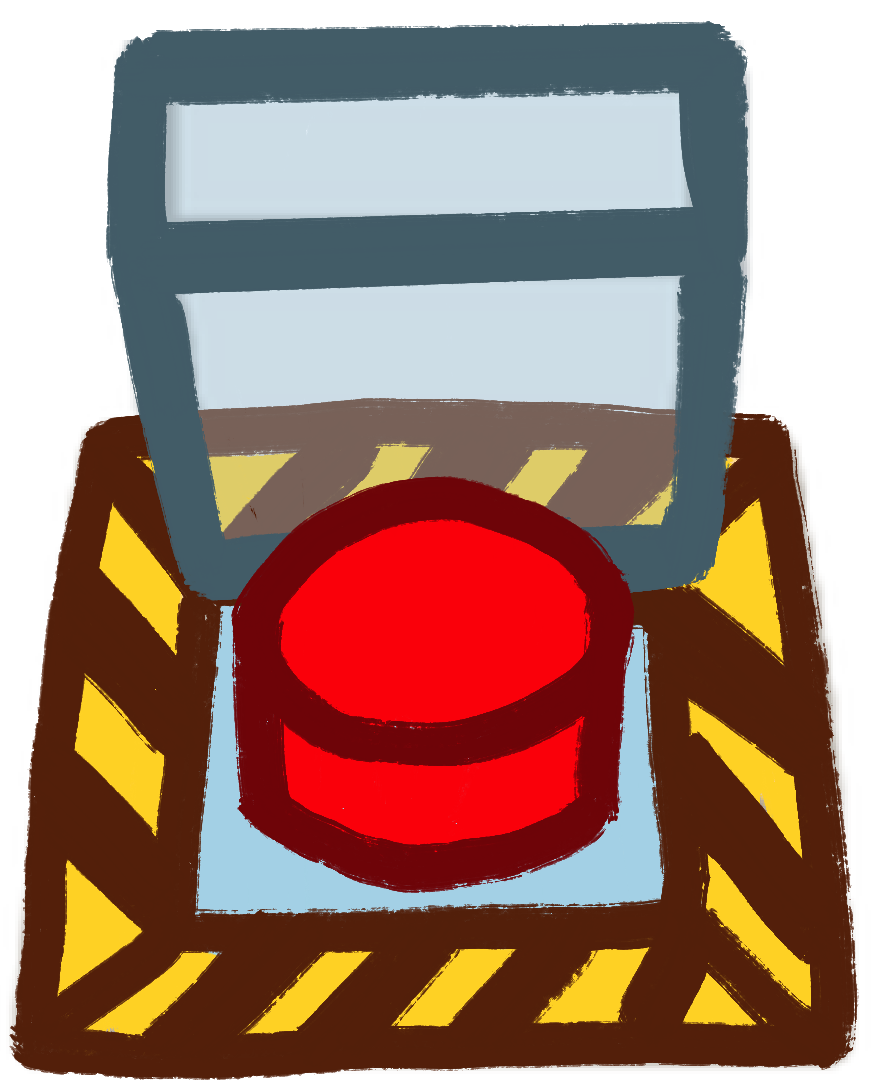
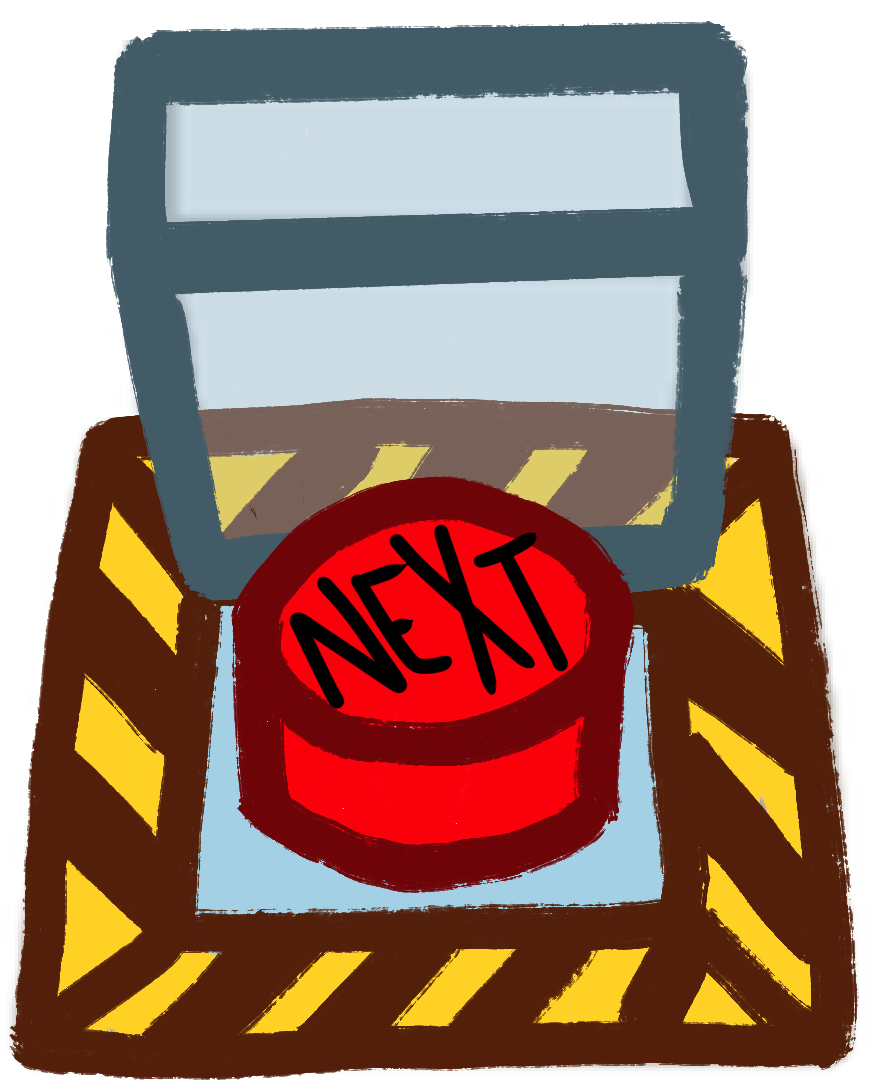
game complete

Changed region(s): [[0.3065, 0.4889, 0.6436, 0.6722]]

diff --git a/css/amongaxl.css b/css/amongaxl.css
@@ -1,0 +1,44 @@
+* {
+  margin: 0;
+  padding: 0;
+  font-family: "Courier New", Courier, monospace;
+}
+
+body {
+  background-image: url("../images/GameBoard.png");
+  background-size: 100%;
+  max-width: 390;
+  background-repeat: no-repeat;
+  background-color: black;
+}
+#word {
+  text-align: center;
+  margin-top: 5vh;
+  font-size: 60px;
+  color: green;
+  text-shadow: 0px 0px 10px lightgreen;
+}
+.next-button {
+  height: 80vh;
+  display: flex;
+  justify-content: center;
+  align-items: center;
+}
+#next {
+  height: 400px;
+  width: auto;
+}
+.back {
+  color: white;
+}
+h1 {
+  display: flex;
+}
+a {
+  text-decoration: none;
+  color: inherit;
+}
+a:visited {
+  text-decoration: none;
+  color: inherit;
+}

diff --git a/pages/amongaxl.html b/pages/amongaxl.html
@@ -10,8 +10,13 @@
   </head>
   <body>
     <div class="textbox" id="word"></div>
-    <input type="button" id="previous" value="Previous Word" />
-    <input type="button" id="next" value="Next Word" />
+    <div class="next-button">
+      <img id="next" src="../images/NextButton.png" />
+    </div>
+    <div class="back">
+      <h1><a href="../index.html">start over</a></h1>
+    </div>
   </body>
+
   <script src="../js/amongaxl.js"></script>
 </html>

diff --git a/js/amongaxl.js b/js/amongaxl.js
@@ -1,6 +1,5 @@
 const word = document.querySelector("#word");
 const nextBtn = document.querySelector("#next");
-const prevBtn = document.querySelector("#previous");
 let wordList = [];
 wordList.push(localStorage.getItem("wordList"));
 let usedWords = [];
@@ -41,4 +40,3 @@ function prevWord() {
 }
 
 nextBtn.addEventListener("click", randomWord);
-prevBtn.addEventListener("click", prevWord);
